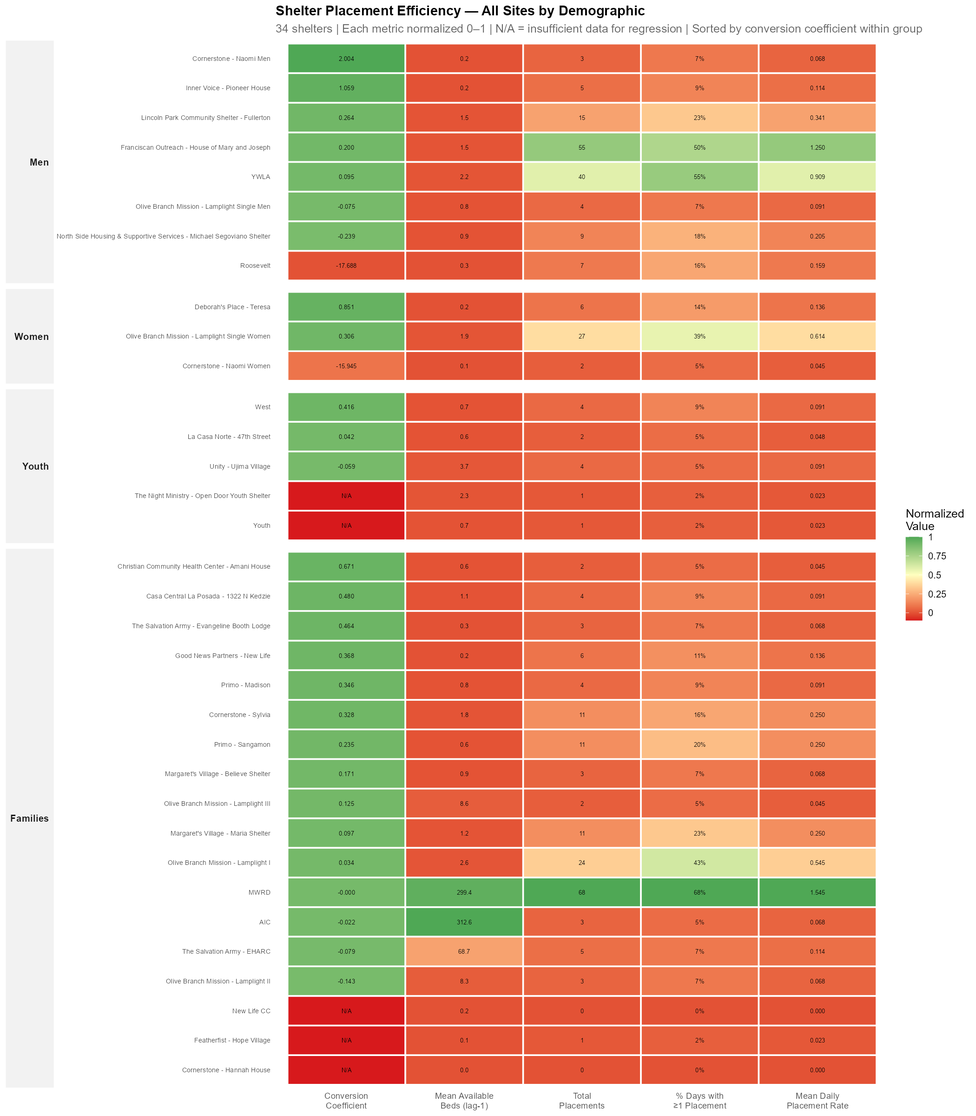
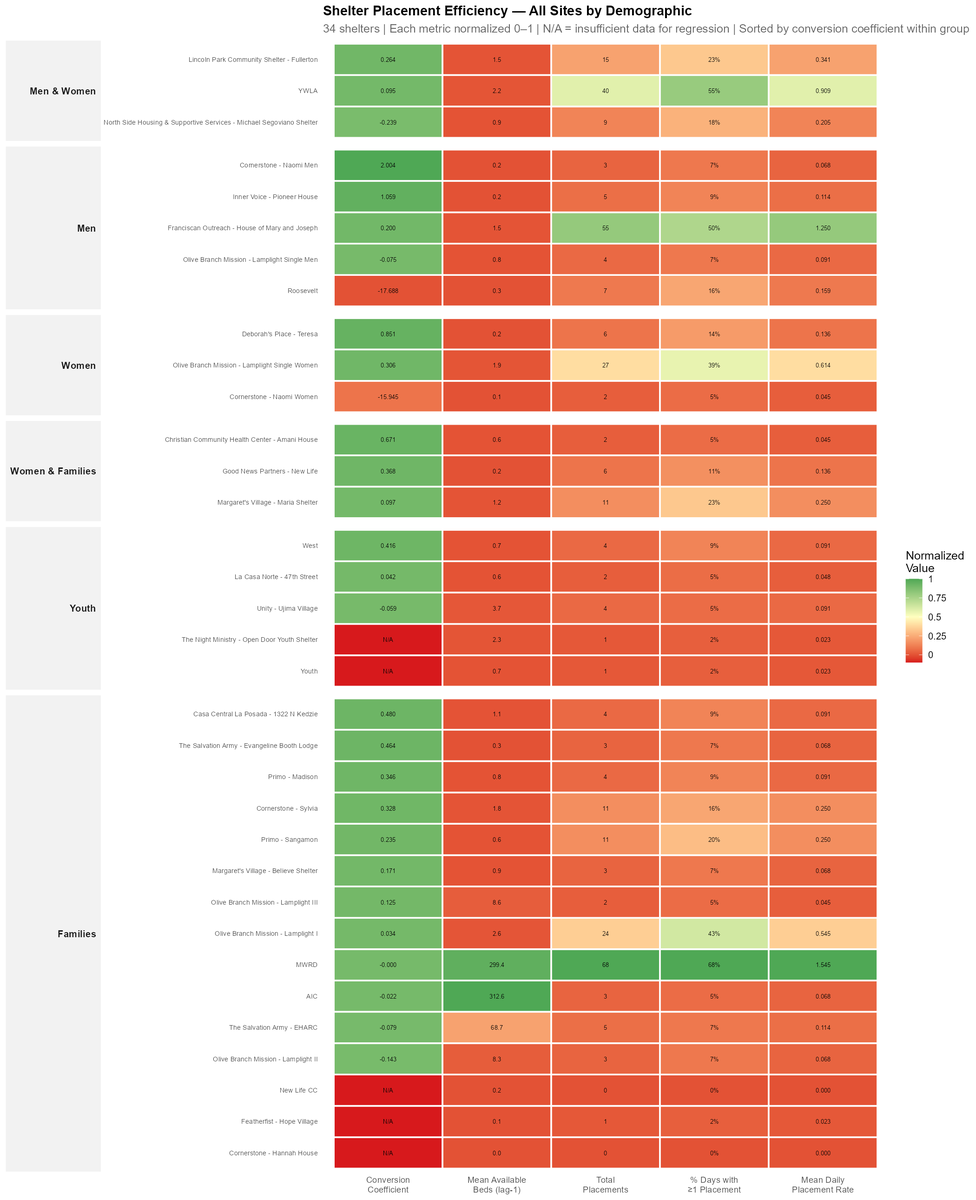
fix: categorize shelters by all populations served, not majority
Replace majority-population demographic assignment with proper
multi-population categorization. Shelters serving both men and
women (e.g., YWLA, Fullerton, Segoviano) are now labeled
"Men & Women" instead of being assigned to whichever gender
had more bed-days. New categories: Men & Women (3), Men (5),
Women (3), Women & Families (3), Youth (5), Families (15).

Update HTML dashboard explanation to describe the new methodology.

diff --git a/analysis/RQ2_site_bed_placement_volume/figures/11_conversion_dashboard_interactive.html b/analysis/RQ2_site_bed_placement_volume/figures/11_conversion_dashboard_interactive.html
@@ -57,7 +57,7 @@
 <body>
 <h1>Shelter Placement Efficiency Dashboard</h1>
 <p class="subtitle">All 34 shelters grouped by demographic served &mdash; sorted by conversion coefficient within group</p>
-<p class="timestamp">Generated: 2026-02-25 15:16 | Run: 2026-02-25_151635 | Period: 2026-01-10 to 2026-02-23</p>
+<p class="timestamp">Generated: 2026-02-25 15:22 | Run: 2026-02-25_152228 | Period: 2026-01-10 to 2026-02-23</p>
 
 <!-- ========== SUMMARY PANEL ========== -->
 <div class="summary-panel">
@@ -117,13 +117,20 @@
 
   <div class="summary-box">
     <h3>How Demographic is Determined</h3>
-    <p>Each shelter is assigned to the <strong>population it most frequently serves</strong> based on the
-    city&rsquo;s bed tracker data. For each shelter group, we count how many bed-site-day records fall
-    under each population label (Men, Women, Youth, Families) and assign the <strong>most common</strong>
-    one. For example, if a shelter&rsquo;s bed records show 40 &ldquo;Men&rdquo; days and 4 &ldquo;Women&rdquo;
-    days, it is classified as a Men&rsquo;s shelter.</p>
-    <p><em>Note: Some shelters serve multiple populations (e.g., YWLA has both Men and Women beds).
-    These are classified by their majority population, which may not capture the full picture.</em></p>
+    <p>Each shelter is categorized by <strong>all populations it serves</strong> based on the
+    city&rsquo;s bed tracker data. We identify every distinct population label (Men, Women,
+    Youth, Families) across all bed sub-sites for each shelter group.</p>
+    <ul>
+      <li><strong>Men &amp; Women:</strong> Shelter operates beds for both men and women
+          (e.g., YWLA has YWLA-Men + YWLA-Women sub-sites)</li>
+      <li><strong>Men:</strong> Shelter operates beds exclusively for men</li>
+      <li><strong>Women:</strong> Shelter operates beds exclusively for women</li>
+      <li><strong>Women &amp; Families:</strong> Shelter operates beds for women and families</li>
+      <li><strong>Youth:</strong> Shelter operates beds for youth</li>
+      <li><strong>Families:</strong> Shelter operates beds exclusively for families</li>
+    </ul>
+    <p><em>This approach captures multi-population shelters accurately rather than
+    assigning a single majority label.</em></p>
   </div>
 
   <div class="summary-box">
@@ -165,7 +172,27 @@
 
 <h2>Shelter Data by Demographic</h2>
 <div class="demo-section">
-    <div class="demo-header">Men (8 shelters)</div>
+    <div class="demo-header">Men & Women (3 shelters)</div>
+    <table>
+    <thead><tr>
+      <th>Shelter</th>
+      <th>Conv. Coeff.<span class="th-sub">log-rate</span></th>
+      <th>SE</th>
+      <th>p-value</th>
+      <th>Mean Beds<span class="th-sub">(lag-1)</span></th>
+      <th>Total Placed</th>
+      <th>Mean Daily<span class="th-sub">Placements</span></th>
+      <th>% Days w/<span class="th-sub">Placement</span></th>
+      <th>Days</th>
+      <th>Status</th>
+    </tr></thead>
+    <tbody>
+<tr><td><strong>Lincoln Park Community Shelter - Fullerton</strong></td><td class="coef-pos">0.2635</td><td>0.1654</td><td>0.1110</td><td>1.5</td><td class="metric-mid">15</td><td class="metric-mid">0.341</td><td>23%</td><td></td><td class="reliable">✓ Reliable</td></tr>
+<tr><td><strong>YWLA</strong></td><td class="coef-pos">0.0953</td><td>0.0669</td><td>0.1545</td><td>2.2</td><td class="metric-high">40</td><td class="metric-high">0.909</td><td>55%</td><td></td><td class="reliable">✓ Reliable</td></tr>
+<tr><td><strong>North Side Housing & Supportive Services - Michael Segoviano Shelter</strong></td><td class="coef-neg">-0.2386</td><td>0.4165</td><td>0.5666</td><td>0.9</td><td class="metric-low">9</td><td class="metric-low">0.205</td><td>18%</td><td></td><td class="reliable">✓ Reliable</td></tr>
+</tbody></table></div>
+<div class="demo-section">
+    <div class="demo-header">Men (5 shelters)</div>
     <table>
     <thead><tr>
       <th>Shelter</th>
@@ -181,13 +208,10 @@
     </tr></thead>
     <tbody>
 <tr><td><strong>Cornerstone - Naomi Men</strong></td><td class="coef-pos">2.0040</td><td>2.0177</td><td>0.3206</td><td>0.2</td><td class="metric-low">3</td><td class="metric-low">0.068</td><td>7%</td><td></td><td class="unreliable">Unreliable estimate</td></tr>
-<tr><td><strong>Inner Voice - Pioneer House</strong></td><td class="coef-pos">1.0586</td><td>0.6087</td><td>0.0820</td><td>0.2</td><td class="metric-low">5</td><td class="metric-low">0.114</td><td>9%</td><td></td><td class="unreliable">Unreliable estimate</td></tr>
-<tr><td><strong>Lincoln Park Community Shelter - Fullerton</strong></td><td class="coef-pos">0.2635</td><td>0.1654</td><td>0.1110</td><td>1.5</td><td class="metric-high">15</td><td class="metric-high">0.341</td><td>23%</td><td></td><td class="reliable">✓ Reliable</td></tr>
+<tr><td><strong>Inner Voice - Pioneer House</strong></td><td class="coef-pos">1.0586</td><td>0.6087</td><td>0.0820</td><td>0.2</td><td class="metric-mid">5</td><td class="metric-mid">0.114</td><td>9%</td><td></td><td class="unreliable">Unreliable estimate</td></tr>
 <tr><td><strong>Franciscan Outreach - House of Mary and Joseph</strong></td><td class="coef-pos">0.2004</td><td>0.0714</td><td>0.0050</td><td>1.5</td><td class="metric-high">55</td><td class="metric-high">1.250</td><td>50%</td><td></td><td class="reliable">✓ Reliable</td></tr>
-<tr><td><strong>YWLA</strong></td><td class="coef-pos">0.0953</td><td>0.0669</td><td>0.1545</td><td>2.2</td><td class="metric-high">40</td><td class="metric-high">0.909</td><td>55%</td><td></td><td class="reliable">✓ Reliable</td></tr>
 <tr><td><strong>Olive Branch Mission - Lamplight Single Men</strong></td><td class="coef-neg">-0.0750</td><td>0.5390</td><td>0.8894</td><td>0.8</td><td class="metric-low">4</td><td class="metric-low">0.091</td><td>7%</td><td></td><td class="reliable">✓ Reliable</td></tr>
-<tr><td><strong>North Side Housing & Supportive Services - Michael Segoviano Shelter</strong></td><td class="coef-neg">-0.2386</td><td>0.4165</td><td>0.5666</td><td>0.9</td><td class="metric-mid">9</td><td class="metric-mid">0.205</td><td>18%</td><td></td><td class="reliable">✓ Reliable</td></tr>
-<tr><td><strong>Roosevelt</strong></td><td class="coef-neg">-17.6879</td><td>2918.4993</td><td>0.9952</td><td>0.3</td><td class="metric-mid">7</td><td class="metric-mid">0.159</td><td>16%</td><td></td><td class="unreliable">Unreliable estimate</td></tr>
+<tr><td><strong>Roosevelt</strong></td><td class="coef-neg">-17.6879</td><td>2918.4993</td><td>0.9952</td><td>0.3</td><td class="metric-high">7</td><td class="metric-high">0.159</td><td>16%</td><td></td><td class="unreliable">Unreliable estimate</td></tr>
 </tbody></table></div>
 <div class="demo-section">
     <div class="demo-header">Women (3 shelters)</div>
@@ -208,6 +232,26 @@
 <tr><td><strong>Deborah's Place - Teresa</strong></td><td class="coef-pos">0.8506</td><td>0.8688</td><td>0.3275</td><td>0.2</td><td class="metric-mid">6</td><td class="metric-mid">0.136</td><td>14%</td><td></td><td class="unreliable">Unreliable estimate</td></tr>
 <tr><td><strong>Olive Branch Mission - Lamplight Single Women</strong></td><td class="coef-pos">0.3061</td><td>0.1095</td><td>0.0052</td><td>1.9</td><td class="metric-high">27</td><td class="metric-high">0.614</td><td>39%</td><td></td><td class="reliable">✓ Reliable</td></tr>
 <tr><td><strong>Cornerstone - Naomi Women</strong></td><td class="coef-neg">-15.9450</td><td>4975.6968</td><td>0.9974</td><td>0.1</td><td class="metric-low">2</td><td class="metric-low">0.045</td><td>5%</td><td></td><td class="unreliable">Unreliable estimate</td></tr>
+</tbody></table></div>
+<div class="demo-section">
+    <div class="demo-header">Women & Families (3 shelters)</div>
+    <table>
+    <thead><tr>
+      <th>Shelter</th>
+      <th>Conv. Coeff.<span class="th-sub">log-rate</span></th>
+      <th>SE</th>
+      <th>p-value</th>
+      <th>Mean Beds<span class="th-sub">(lag-1)</span></th>
+      <th>Total Placed</th>
+      <th>Mean Daily<span class="th-sub">Placements</span></th>
+      <th>% Days w/<span class="th-sub">Placement</span></th>
+      <th>Days</th>
+      <th>Status</th>
+    </tr></thead>
+    <tbody>
+<tr><td><strong>Christian Community Health Center - Amani House</strong></td><td class="coef-pos">0.6715</td><td>0.7312</td><td>0.3585</td><td>0.6</td><td class="metric-low">2</td><td class="metric-low">0.045</td><td>5%</td><td></td><td class="reliable">✓ Reliable</td></tr>
+<tr><td><strong>Good News Partners - New Life</strong></td><td class="coef-pos">0.3678</td><td>0.2677</td><td>0.1694</td><td>0.2</td><td class="metric-mid">6</td><td class="metric-mid">0.136</td><td>11%</td><td></td><td class="unreliable">Unreliable estimate</td></tr>
+<tr><td><strong>Margaret's Village - Maria Shelter</strong></td><td class="coef-pos">0.0968</td><td>0.2119</td><td>0.6478</td><td>1.2</td><td class="metric-high">11</td><td class="metric-high">0.250</td><td>23%</td><td></td><td class="reliable">✓ Reliable</td></tr>
 </tbody></table></div>
 <div class="demo-section">
     <div class="demo-header">Youth (5 shelters)</div>
@@ -232,7 +276,7 @@
 <tr><td><strong>The Night Ministry - Open Door Youth Shelter</strong></td><td class="coef-na">N/A</td><td>N/A</td><td>N/A</td><td>2.3</td><td class="metric-low">1</td><td class="metric-low">0.023</td><td>2%</td><td></td><td class="no-data">Insufficient data</td></tr>
 </tbody></table></div>
 <div class="demo-section">
-    <div class="demo-header">Families (18 shelters)</div>
+    <div class="demo-header">Families (15 shelters)</div>
     <table>
     <thead><tr>
       <th>Shelter</th>
@@ -247,20 +291,17 @@
       <th>Status</th>
     </tr></thead>
     <tbody>
-<tr><td><strong>Christian Community Health Center - Amani House</strong></td><td class="coef-pos">0.6715</td><td>0.7312</td><td>0.3585</td><td>0.6</td><td class="metric-low">2</td><td class="metric-low">0.045</td><td>5%</td><td></td><td class="reliable">✓ Reliable</td></tr>
 <tr><td><strong>Casa Central La Posada - 1322 N Kedzie</strong></td><td class="coef-pos">0.4801</td><td>0.2047</td><td>0.0190</td><td>1.1</td><td class="metric-mid">4</td><td class="metric-mid">0.091</td><td>9%</td><td></td><td class="reliable">✓ Reliable</td></tr>
 <tr><td><strong>The Salvation Army - Evangeline Booth Lodge</strong></td><td class="coef-pos">0.4644</td><td>0.3694</td><td>0.2087</td><td>0.3</td><td class="metric-mid">3</td><td class="metric-mid">0.068</td><td>7%</td><td></td><td class="unreliable">Unreliable estimate</td></tr>
-<tr><td><strong>Good News Partners - New Life</strong></td><td class="coef-pos">0.3678</td><td>0.2677</td><td>0.1694</td><td>0.2</td><td class="metric-high">6</td><td class="metric-high">0.136</td><td>11%</td><td></td><td class="unreliable">Unreliable estimate</td></tr>
 <tr><td><strong>Primo - Madison</strong></td><td class="coef-pos">0.3456</td><td>0.1697</td><td>0.0417</td><td>0.8</td><td class="metric-mid">4</td><td class="metric-mid">0.091</td><td>9%</td><td></td><td class="reliable">✓ Reliable</td></tr>
 <tr><td><strong>Cornerstone - Sylvia</strong></td><td class="coef-pos">0.3277</td><td>0.1045</td><td>0.0017</td><td>1.8</td><td class="metric-high">11</td><td class="metric-high">0.250</td><td>16%</td><td></td><td class="reliable">✓ Reliable</td></tr>
 <tr><td><strong>Primo - Sangamon</strong></td><td class="coef-pos">0.2351</td><td>0.1973</td><td>0.2336</td><td>0.6</td><td class="metric-high">11</td><td class="metric-high">0.250</td><td>20%</td><td></td><td class="reliable">✓ Reliable</td></tr>
 <tr><td><strong>Margaret's Village - Believe Shelter</strong></td><td class="coef-pos">0.1708</td><td>0.2405</td><td>0.4777</td><td>0.9</td><td class="metric-mid">3</td><td class="metric-mid">0.068</td><td>7%</td><td></td><td class="reliable">✓ Reliable</td></tr>
 <tr><td><strong>Olive Branch Mission - Lamplight III</strong></td><td class="coef-pos">0.1255</td><td>0.1521</td><td>0.4093</td><td>8.6</td><td class="metric-low">2</td><td class="metric-low">0.045</td><td>5%</td><td></td><td class="reliable">✓ Reliable</td></tr>
-<tr><td><strong>Margaret's Village - Maria Shelter</strong></td><td class="coef-pos">0.0968</td><td>0.2119</td><td>0.6478</td><td>1.2</td><td class="metric-high">11</td><td class="metric-high">0.250</td><td>23%</td><td></td><td class="reliable">✓ Reliable</td></tr>
 <tr><td><strong>Olive Branch Mission - Lamplight I</strong></td><td class="coef-pos">0.0340</td><td>0.0390</td><td>0.3827</td><td>2.6</td><td class="metric-high">24</td><td class="metric-high">0.545</td><td>43%</td><td></td><td class="reliable">✓ Reliable</td></tr>
 <tr><td><strong>MWRD</strong></td><td class="coef-neg">-0.0001</td><td>0.0022</td><td>0.9617</td><td>299.4</td><td class="metric-high">68</td><td class="metric-high">1.545</td><td>68%</td><td></td><td class="reliable">✓ Reliable</td></tr>
 <tr><td><strong>AIC</strong></td><td class="coef-neg">-0.0220</td><td>5.7992</td><td>0.9970</td><td>312.6</td><td class="metric-mid">3</td><td class="metric-mid">0.068</td><td>5%</td><td></td><td class="unreliable">Unreliable estimate</td></tr>
-<tr><td><strong>The Salvation Army - EHARC</strong></td><td class="coef-neg">-0.0786</td><td>0.1522</td><td>0.6054</td><td>68.7</td><td class="metric-mid">5</td><td class="metric-mid">0.114</td><td>7%</td><td></td><td class="reliable">✓ Reliable</td></tr>
+<tr><td><strong>The Salvation Army - EHARC</strong></td><td class="coef-neg">-0.0786</td><td>0.1522</td><td>0.6054</td><td>68.7</td><td class="metric-high">5</td><td class="metric-high">0.114</td><td>7%</td><td></td><td class="reliable">✓ Reliable</td></tr>
 <tr><td><strong>Olive Branch Mission - Lamplight II</strong></td><td class="coef-neg">-0.1427</td><td>0.1282</td><td>0.2659</td><td>8.3</td><td class="metric-mid">3</td><td class="metric-mid">0.068</td><td>7%</td><td></td><td class="reliable">✓ Reliable</td></tr>
 <tr><td><strong>Cornerstone - Hannah House</strong></td><td class="coef-na">N/A</td><td>N/A</td><td>N/A</td><td>0.0</td><td class="metric-low">0</td><td class="metric-low">0.000</td><td>0%</td><td></td><td class="no-data">Insufficient data</td></tr>
 <tr><td><strong>Featherfist - Hope Village</strong></td><td class="coef-na">N/A</td><td>N/A</td><td>N/A</td><td>0.1</td><td class="metric-low">1</td><td class="metric-low">0.023</td><td>2%</td><td></td><td class="no-data">Insufficient data</td></tr>

diff --git a/analysis/RQ3_site_conversion_efficiency/figures/11_conversion_dashboard_interactive.html b/analysis/RQ3_site_conversion_efficiency/figures/11_conversion_dashboard_interactive.html
@@ -57,7 +57,7 @@
 <body>
 <h1>Shelter Placement Efficiency Dashboard</h1>
 <p class="subtitle">All 34 shelters grouped by demographic served &mdash; sorted by conversion coefficient within group</p>
-<p class="timestamp">Generated: 2026-02-25 15:16 | Run: 2026-02-25_151635 | Period: 2026-01-10 to 2026-02-23</p>
+<p class="timestamp">Generated: 2026-02-25 15:22 | Run: 2026-02-25_152228 | Period: 2026-01-10 to 2026-02-23</p>
 
 <!-- ========== SUMMARY PANEL ========== -->
 <div class="summary-panel">
@@ -117,13 +117,20 @@
 
   <div class="summary-box">
     <h3>How Demographic is Determined</h3>
-    <p>Each shelter is assigned to the <strong>population it most frequently serves</strong> based on the
-    city&rsquo;s bed tracker data. For each shelter group, we count how many bed-site-day records fall
-    under each population label (Men, Women, Youth, Families) and assign the <strong>most common</strong>
-    one. For example, if a shelter&rsquo;s bed records show 40 &ldquo;Men&rdquo; days and 4 &ldquo;Women&rdquo;
-    days, it is classified as a Men&rsquo;s shelter.</p>
-    <p><em>Note: Some shelters serve multiple populations (e.g., YWLA has both Men and Women beds).
-    These are classified by their majority population, which may not capture the full picture.</em></p>
+    <p>Each shelter is categorized by <strong>all populations it serves</strong> based on the
+    city&rsquo;s bed tracker data. We identify every distinct population label (Men, Women,
+    Youth, Families) across all bed sub-sites for each shelter group.</p>
+    <ul>
+      <li><strong>Men &amp; Women:</strong> Shelter operates beds for both men and women
+          (e.g., YWLA has YWLA-Men + YWLA-Women sub-sites)</li>
+      <li><strong>Men:</strong> Shelter operates beds exclusively for men</li>
+      <li><strong>Women:</strong> Shelter operates beds exclusively for women</li>
+      <li><strong>Women &amp; Families:</strong> Shelter operates beds for women and families</li>
+      <li><strong>Youth:</strong> Shelter operates beds for youth</li>
+      <li><strong>Families:</strong> Shelter operates beds exclusively for families</li>
+    </ul>
+    <p><em>This approach captures multi-population shelters accurately rather than
+    assigning a single majority label.</em></p>
   </div>
 
   <div class="summary-box">
@@ -165,7 +172,27 @@
 
 <h2>Shelter Data by Demographic</h2>
 <div class="demo-section">
-    <div class="demo-header">Men (8 shelters)</div>
+    <div class="demo-header">Men & Women (3 shelters)</div>
+    <table>
+    <thead><tr>
+      <th>Shelter</th>
+      <th>Conv. Coeff.<span class="th-sub">log-rate</span></th>
+      <th>SE</th>
+      <th>p-value</th>
+      <th>Mean Beds<span class="th-sub">(lag-1)</span></th>
+      <th>Total Placed</th>
+      <th>Mean Daily<span class="th-sub">Placements</span></th>
+      <th>% Days w/<span class="th-sub">Placement</span></th>
+      <th>Days</th>
+      <th>Status</th>
+    </tr></thead>
+    <tbody>
+<tr><td><strong>Lincoln Park Community Shelter - Fullerton</strong></td><td class="coef-pos">0.2635</td><td>0.1654</td><td>0.1110</td><td>1.5</td><td class="metric-mid">15</td><td class="metric-mid">0.341</td><td>23%</td><td></td><td class="reliable">✓ Reliable</td></tr>
+<tr><td><strong>YWLA</strong></td><td class="coef-pos">0.0953</td><td>0.0669</td><td>0.1545</td><td>2.2</td><td class="metric-high">40</td><td class="metric-high">0.909</td><td>55%</td><td></td><td class="reliable">✓ Reliable</td></tr>
+<tr><td><strong>North Side Housing & Supportive Services - Michael Segoviano Shelter</strong></td><td class="coef-neg">-0.2386</td><td>0.4165</td><td>0.5666</td><td>0.9</td><td class="metric-low">9</td><td class="metric-low">0.205</td><td>18%</td><td></td><td class="reliable">✓ Reliable</td></tr>
+</tbody></table></div>
+<div class="demo-section">
+    <div class="demo-header">Men (5 shelters)</div>
     <table>
     <thead><tr>
       <th>Shelter</th>
@@ -181,13 +208,10 @@
     </tr></thead>
     <tbody>
 <tr><td><strong>Cornerstone - Naomi Men</strong></td><td class="coef-pos">2.0040</td><td>2.0177</td><td>0.3206</td><td>0.2</td><td class="metric-low">3</td><td class="metric-low">0.068</td><td>7%</td><td></td><td class="unreliable">Unreliable estimate</td></tr>
-<tr><td><strong>Inner Voice - Pioneer House</strong></td><td class="coef-pos">1.0586</td><td>0.6087</td><td>0.0820</td><td>0.2</td><td class="metric-low">5</td><td class="metric-low">0.114</td><td>9%</td><td></td><td class="unreliable">Unreliable estimate</td></tr>
-<tr><td><strong>Lincoln Park Community Shelter - Fullerton</strong></td><td class="coef-pos">0.2635</td><td>0.1654</td><td>0.1110</td><td>1.5</td><td class="metric-high">15</td><td class="metric-high">0.341</td><td>23%</td><td></td><td class="reliable">✓ Reliable</td></tr>
+<tr><td><strong>Inner Voice - Pioneer House</strong></td><td class="coef-pos">1.0586</td><td>0.6087</td><td>0.0820</td><td>0.2</td><td class="metric-mid">5</td><td class="metric-mid">0.114</td><td>9%</td><td></td><td class="unreliable">Unreliable estimate</td></tr>
 <tr><td><strong>Franciscan Outreach - House of Mary and Joseph</strong></td><td class="coef-pos">0.2004</td><td>0.0714</td><td>0.0050</td><td>1.5</td><td class="metric-high">55</td><td class="metric-high">1.250</td><td>50%</td><td></td><td class="reliable">✓ Reliable</td></tr>
-<tr><td><strong>YWLA</strong></td><td class="coef-pos">0.0953</td><td>0.0669</td><td>0.1545</td><td>2.2</td><td class="metric-high">40</td><td class="metric-high">0.909</td><td>55%</td><td></td><td class="reliable">✓ Reliable</td></tr>
 <tr><td><strong>Olive Branch Mission - Lamplight Single Men</strong></td><td class="coef-neg">-0.0750</td><td>0.5390</td><td>0.8894</td><td>0.8</td><td class="metric-low">4</td><td class="metric-low">0.091</td><td>7%</td><td></td><td class="reliable">✓ Reliable</td></tr>
-<tr><td><strong>North Side Housing & Supportive Services - Michael Segoviano Shelter</strong></td><td class="coef-neg">-0.2386</td><td>0.4165</td><td>0.5666</td><td>0.9</td><td class="metric-mid">9</td><td class="metric-mid">0.205</td><td>18%</td><td></td><td class="reliable">✓ Reliable</td></tr>
-<tr><td><strong>Roosevelt</strong></td><td class="coef-neg">-17.6879</td><td>2918.4993</td><td>0.9952</td><td>0.3</td><td class="metric-mid">7</td><td class="metric-mid">0.159</td><td>16%</td><td></td><td class="unreliable">Unreliable estimate</td></tr>
+<tr><td><strong>Roosevelt</strong></td><td class="coef-neg">-17.6879</td><td>2918.4993</td><td>0.9952</td><td>0.3</td><td class="metric-high">7</td><td class="metric-high">0.159</td><td>16%</td><td></td><td class="unreliable">Unreliable estimate</td></tr>
 </tbody></table></div>
 <div class="demo-section">
     <div class="demo-header">Women (3 shelters)</div>
@@ -208,6 +232,26 @@
 <tr><td><strong>Deborah's Place - Teresa</strong></td><td class="coef-pos">0.8506</td><td>0.8688</td><td>0.3275</td><td>0.2</td><td class="metric-mid">6</td><td class="metric-mid">0.136</td><td>14%</td><td></td><td class="unreliable">Unreliable estimate</td></tr>
 <tr><td><strong>Olive Branch Mission - Lamplight Single Women</strong></td><td class="coef-pos">0.3061</td><td>0.1095</td><td>0.0052</td><td>1.9</td><td class="metric-high">27</td><td class="metric-high">0.614</td><td>39%</td><td></td><td class="reliable">✓ Reliable</td></tr>
 <tr><td><strong>Cornerstone - Naomi Women</strong></td><td class="coef-neg">-15.9450</td><td>4975.6968</td><td>0.9974</td><td>0.1</td><td class="metric-low">2</td><td class="metric-low">0.045</td><td>5%</td><td></td><td class="unreliable">Unreliable estimate</td></tr>
+</tbody></table></div>
+<div class="demo-section">
+    <div class="demo-header">Women & Families (3 shelters)</div>
+    <table>
+    <thead><tr>
+      <th>Shelter</th>
+      <th>Conv. Coeff.<span class="th-sub">log-rate</span></th>
+      <th>SE</th>
+      <th>p-value</th>
+      <th>Mean Beds<span class="th-sub">(lag-1)</span></th>
+      <th>Total Placed</th>
+      <th>Mean Daily<span class="th-sub">Placements</span></th>
+      <th>% Days w/<span class="th-sub">Placement</span></th>
+      <th>Days</th>
+      <th>Status</th>
+    </tr></thead>
+    <tbody>
+<tr><td><strong>Christian Community Health Center - Amani House</strong></td><td class="coef-pos">0.6715</td><td>0.7312</td><td>0.3585</td><td>0.6</td><td class="metric-low">2</td><td class="metric-low">0.045</td><td>5%</td><td></td><td class="reliable">✓ Reliable</td></tr>
+<tr><td><strong>Good News Partners - New Life</strong></td><td class="coef-pos">0.3678</td><td>0.2677</td><td>0.1694</td><td>0.2</td><td class="metric-mid">6</td><td class="metric-mid">0.136</td><td>11%</td><td></td><td class="unreliable">Unreliable estimate</td></tr>
+<tr><td><strong>Margaret's Village - Maria Shelter</strong></td><td class="coef-pos">0.0968</td><td>0.2119</td><td>0.6478</td><td>1.2</td><td class="metric-high">11</td><td class="metric-high">0.250</td><td>23%</td><td></td><td class="reliable">✓ Reliable</td></tr>
 </tbody></table></div>
 <div class="demo-section">
     <div class="demo-header">Youth (5 shelters)</div>
@@ -232,7 +276,7 @@
 <tr><td><strong>The Night Ministry - Open Door Youth Shelter</strong></td><td class="coef-na">N/A</td><td>N/A</td><td>N/A</td><td>2.3</td><td class="metric-low">1</td><td class="metric-low">0.023</td><td>2%</td><td></td><td class="no-data">Insufficient data</td></tr>
 </tbody></table></div>
 <div class="demo-section">
-    <div class="demo-header">Families (18 shelters)</div>
+    <div class="demo-header">Families (15 shelters)</div>
     <table>
     <thead><tr>
       <th>Shelter</th>
@@ -247,20 +291,17 @@
       <th>Status</th>
     </tr></thead>
     <tbody>
-<tr><td><strong>Christian Community Health Center - Amani House</strong></td><td class="coef-pos">0.6715</td><td>0.7312</td><td>0.3585</td><td>0.6</td><td class="metric-low">2</td><td class="metric-low">0.045</td><td>5%</td><td></td><td class="reliable">✓ Reliable</td></tr>
 <tr><td><strong>Casa Central La Posada - 1322 N Kedzie</strong></td><td class="coef-pos">0.4801</td><td>0.2047</td><td>0.0190</td><td>1.1</td><td class="metric-mid">4</td><td class="metric-mid">0.091</td><td>9%</td><td></td><td class="reliable">✓ Reliable</td></tr>
 <tr><td><strong>The Salvation Army - Evangeline Booth Lodge</strong></td><td class="coef-pos">0.4644</td><td>0.3694</td><td>0.2087</td><td>0.3</td><td class="metric-mid">3</td><td class="metric-mid">0.068</td><td>7%</td><td></td><td class="unreliable">Unreliable estimate</td></tr>
-<tr><td><strong>Good News Partners - New Life</strong></td><td class="coef-pos">0.3678</td><td>0.2677</td><td>0.1694</td><td>0.2</td><td class="metric-high">6</td><td class="metric-high">0.136</td><td>11%</td><td></td><td class="unreliable">Unreliable estimate</td></tr>
 <tr><td><strong>Primo - Madison</strong></td><td class="coef-pos">0.3456</td><td>0.1697</td><td>0.0417</td><td>0.8</td><td class="metric-mid">4</td><td class="metric-mid">0.091</td><td>9%</td><td></td><td class="reliable">✓ Reliable</td></tr>
 <tr><td><strong>Cornerstone - Sylvia</strong></td><td class="coef-pos">0.3277</td><td>0.1045</td><td>0.0017</td><td>1.8</td><td class="metric-high">11</td><td class="metric-high">0.250</td><td>16%</td><td></td><td class="reliable">✓ Reliable</td></tr>
 <tr><td><strong>Primo - Sangamon</strong></td><td class="coef-pos">0.2351</td><td>0.1973</td><td>0.2336</td><td>0.6</td><td class="metric-high">11</td><td class="metric-high">0.250</td><td>20%</td><td></td><td class="reliable">✓ Reliable</td></tr>
 <tr><td><strong>Margaret's Village - Believe Shelter</strong></td><td class="coef-pos">0.1708</td><td>0.2405</td><td>0.4777</td><td>0.9</td><td class="metric-mid">3</td><td class="metric-mid">0.068</td><td>7%</td><td></td><td class="reliable">✓ Reliable</td></tr>
 <tr><td><strong>Olive Branch Mission - Lamplight III</strong></td><td class="coef-pos">0.1255</td><td>0.1521</td><td>0.4093</td><td>8.6</td><td class="metric-low">2</td><td class="metric-low">0.045</td><td>5%</td><td></td><td class="reliable">✓ Reliable</td></tr>
-<tr><td><strong>Margaret's Village - Maria Shelter</strong></td><td class="coef-pos">0.0968</td><td>0.2119</td><td>0.6478</td><td>1.2</td><td class="metric-high">11</td><td class="metric-high">0.250</td><td>23%</td><td></td><td class="reliable">✓ Reliable</td></tr>
 <tr><td><strong>Olive Branch Mission - Lamplight I</strong></td><td class="coef-pos">0.0340</td><td>0.0390</td><td>0.3827</td><td>2.6</td><td class="metric-high">24</td><td class="metric-high">0.545</td><td>43%</td><td></td><td class="reliable">✓ Reliable</td></tr>
 <tr><td><strong>MWRD</strong></td><td class="coef-neg">-0.0001</td><td>0.0022</td><td>0.9617</td><td>299.4</td><td class="metric-high">68</td><td class="metric-high">1.545</td><td>68%</td><td></td><td class="reliable">✓ Reliable</td></tr>
 <tr><td><strong>AIC</strong></td><td class="coef-neg">-0.0220</td><td>5.7992</td><td>0.9970</td><td>312.6</td><td class="metric-mid">3</td><td class="metric-mid">0.068</td><td>5%</td><td></td><td class="unreliable">Unreliable estimate</td></tr>
-<tr><td><strong>The Salvation Army - EHARC</strong></td><td class="coef-neg">-0.0786</td><td>0.1522</td><td>0.6054</td><td>68.7</td><td class="metric-mid">5</td><td class="metric-mid">0.114</td><td>7%</td><td></td><td class="reliable">✓ Reliable</td></tr>
+<tr><td><strong>The Salvation Army - EHARC</strong></td><td class="coef-neg">-0.0786</td><td>0.1522</td><td>0.6054</td><td>68.7</td><td class="metric-high">5</td><td class="metric-high">0.114</td><td>7%</td><td></td><td class="reliable">✓ Reliable</td></tr>
 <tr><td><strong>Olive Branch Mission - Lamplight II</strong></td><td class="coef-neg">-0.1427</td><td>0.1282</td><td>0.2659</td><td>8.3</td><td class="metric-mid">3</td><td class="metric-mid">0.068</td><td>7%</td><td></td><td class="reliable">✓ Reliable</td></tr>
 <tr><td><strong>Cornerstone - Hannah House</strong></td><td class="coef-na">N/A</td><td>N/A</td><td>N/A</td><td>0.0</td><td class="metric-low">0</td><td class="metric-low">0.000</td><td>0%</td><td></td><td class="no-data">Insufficient data</td></tr>
 <tr><td><strong>Featherfist - Hope Village</strong></td><td class="coef-na">N/A</td><td>N/A</td><td>N/A</td><td>0.1</td><td class="metric-low">1</td><td class="metric-low">0.023</td><td>2%</td><td></td><td class="no-data">Insufficient data</td></tr>
